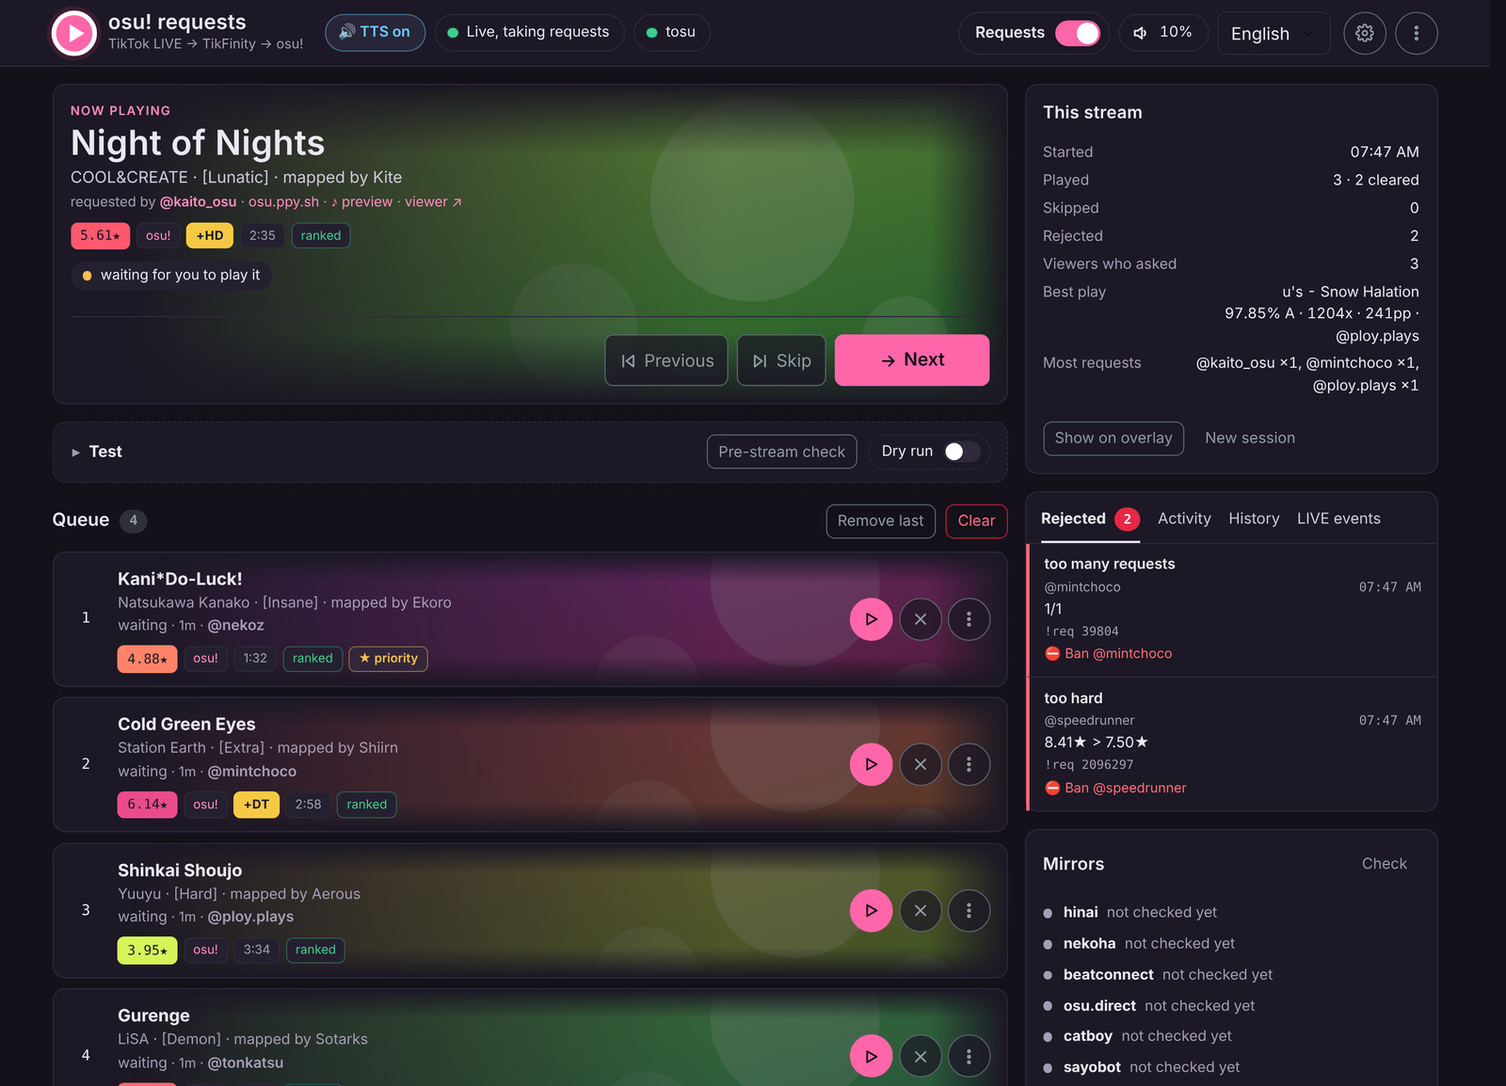
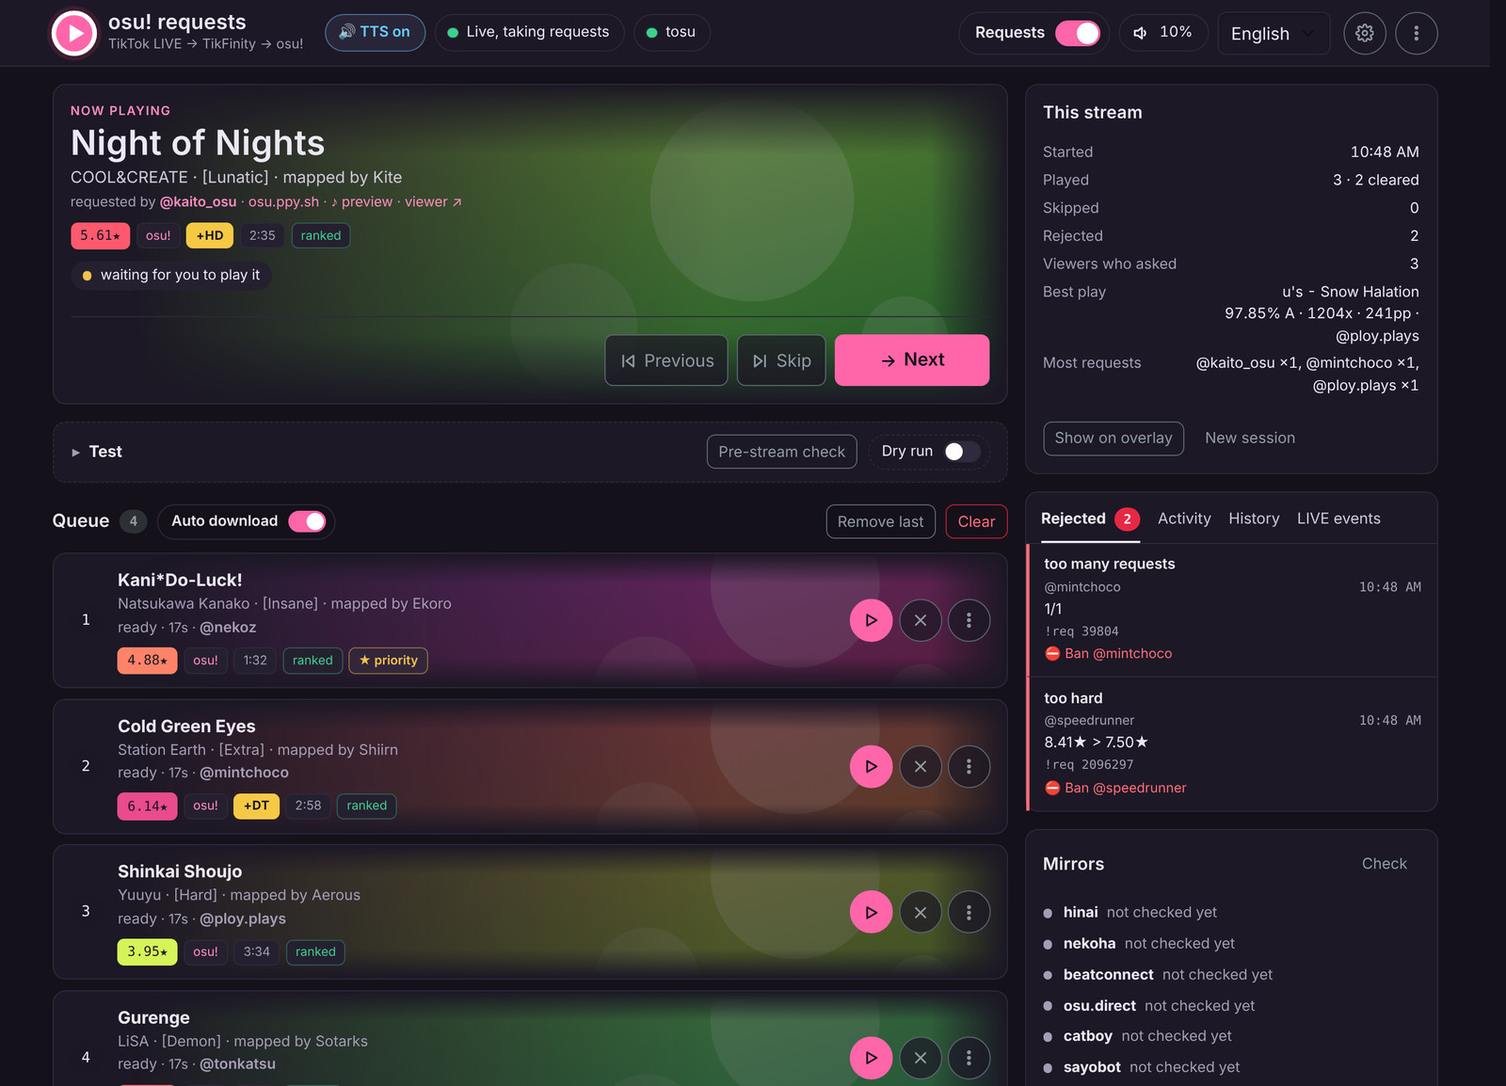
Auto download switch on the dashboard
A switch above the queue turns the background download of the next maps
on and off (import.preload, the setting formerly called Preload upcoming
maps, now Auto download). Off, a map is fetched when it is opened (Next,
Play now, or the one auto mode opens next); downloads already running
finish. Switching on with a count of 0 sets the count to the default 2.

POST /api/action/toggleAutoDownload, State.autoDownload and
autoDownloadN, an Activity line each way, tests for the app and the
server, docs and README screenshots updated.

diff --git a/internal/server/web/app.js b/internal/server/web/app.js
@@ -62,6 +62,10 @@ const T = {
   giftDone: ["Gift sent: {n} priority and {r} request(s) earned", "ส่งของขวัญแล้ว: ได้คิวพิเศษ {n} ครั้ง และขอเพลงได้ {r} เพลง"],
   priority: ["priority", "คิวพิเศษ"],
   dryRun: ["Dry run", "ทดลองไม่เปิดเกม"],
+  autoDl: ["Auto download", "ดาวน์โหลดอัตโนมัติ"],
+  autoDlOnTip: ["On: the next {n} maps in the queue are downloaded and checked in the background, so Next is instant.", "เปิดอยู่: โหลดและตรวจแมพ {n} เพลงถัดไปในคิวไว้ก่อน กด ถัดไป แล้วเปิดได้ทันที"],
+  autoDlOffTip: ["Off: nothing is downloaded in the background. A map is fetched when you open it (Next or Play now), so it takes a moment.", "ปิดอยู่: ไม่โหลดอะไรล่วงหน้า แมพจะถูกโหลดตอนเปิด (ถัดไป หรือ เล่นเลย) เลยรอสักครู่"],
+  n_autoDlOn: ["Auto download on ({n} maps ahead)", "เปิดดาวน์โหลดอัตโนมัติแล้ว (ล่วงหน้า {n} เพลง)"], n_autoDlOff: ["Auto download off: maps are fetched when opened", "ปิดดาวน์โหลดอัตโนมัติแล้ว: โหลดแมพตอนเปิด"],
   clearTest: ["Clear test data", "ล้างข้อมูลทดสอบ"],
   testPh: ["!req 2096297, a link or any chat message", "!req 2096297, ลิงก์ หรือแชททั่วไป"],
   spokenTest: ["Not a request: read aloud by chat TTS", "ไม่ใช่คำขอ: ส่งให้เสียงอ่านแชทแล้ว"],
@@ -434,6 +438,8 @@ function render() {
   $("#reqSw").checked = S.requests;
   if (!volEditing) showVolume(S.masterVolume ?? 10);
   $("#dryRunSw").checked = S.dryRun;
+  $("#autoDlSw").checked = S.autoDownload;
+  $("#autoDlWrap").title = t(S.autoDownload ? "autoDlOnTip" : "autoDlOffTip", { n: S.autoDownloadN });
   $("#dryPill").hidden = !S.dryRun;
   renderTTS();
   const up = $("#updPill");
@@ -1158,6 +1164,7 @@ $("#testMode").addEventListener("click", e => {
   renderTestHint();
 });
 $("#dryRunSw").addEventListener("change", () => act("/api/action/toggleDryRun"));
+$("#autoDlSw").addEventListener("change", () => act("/api/action/toggleAutoDownload"));
 /* ---------- pre-stream check ---------- */
 // Runs app.Preflight and lists the result in a drawer; problems first.
 let pfChecks = null, pfRunning = false;
@@ -1336,8 +1343,8 @@ const SCHEMA = {
   import: [
     F("import.mode", "seg", "Import mode", "วิธีนำเข้า", "open: osu! imports and jumps to the map (stable + lazer). copy / extract: stable only, picked up on song select or F5.", "open: osu! นำเข้าแล้วกระโดดไปที่แมพ (stable + lazer) copy / extract: เฉพาะ stable จะเห็นเมื่อเข้าหน้าเลือกเพลงหรือกด F5",
       { options: [["open", "open"], ["copy-to-songs", "copy to Songs"], ["extract-to-songs", "extract to Songs"]] }),
-    F("import.preload", "switch", "Preload upcoming maps", "โหลดแมพถัดไปล่วงหน้า", "Downloads and verifies the next maps in the background (stable: also copies them into Songs) so Next is instant.", "ดาวน์โหลดและตรวจแมพถัดไปไว้ก่อน (stable: คัดลอกเข้า Songs ด้วย) กด ถัดไป แล้วเปิดได้ทันที"),
-    F("import.preloadCount", "number", "Preload count", "จำนวนที่โหลดล่วงหน้า", null, null, { min: 0, max: 10 }),
+    F("import.preload", "switch", "Auto download", "ดาวน์โหลดอัตโนมัติ", "Downloads and verifies the next maps in the background (stable: also copies them into Songs) so Next is instant. The same switch is above the queue on the dashboard.", "ดาวน์โหลดและตรวจแมพถัดไปไว้ก่อน (stable: คัดลอกเข้า Songs ด้วย) กด ถัดไป แล้วเปิดได้ทันที สวิตช์เดียวกันอยู่เหนือคิวในหน้าแดชบอร์ด"),
+    F("import.preloadCount", "number", "Auto download: how many maps ahead", "ดาวน์โหลดอัตโนมัติ: กี่เพลงล่วงหน้า", null, null, { min: 0, max: 10 }),
   ],
   overlay: [
     F("", "overlaylink", "OBS Browser Source URL", "URL สำหรับ Browser Source ใน OBS", "Add a Browser Source in OBS or TikTok LIVE Studio with this URL. The background is transparent.", "เพิ่ม Browser Source ใน OBS หรือ TikTok LIVE Studio ด้วย URL นี้ พื้นหลังโปร่งใส"),

diff --git a/internal/server/web/app.css b/internal/server/web/app.css
@@ -109,7 +109,8 @@ button.pill:hover, a.pill:hover { background: var(--surface-2); }
 .reqtog { display: inline-flex; align-items: center; gap: .6rem; min-height: 2.5rem; padding: .2rem .5rem .2rem .9rem; border-radius: 999px; border: 1px solid var(--line); cursor: pointer; }
 .reqtog .reqlabel { font-weight: 600; font-size: .9rem; }
 .reqtog .switch { --bs-switch-height: 1.5rem; }
-.reqtog.sm { min-height: 2.1rem; padding-left: .75rem; border-style: dashed; font-size: .85rem; }
+.reqtog.sm { min-height: 2.1rem; padding-left: .75rem; font-size: .85rem; }
+.testh .reqtog.sm { border-style: dashed; }
 .reqtog.sm .switch { --bs-switch-height: 1.25rem; }
 .reqtog:has(input:not(:checked)) { border-color: color-mix(in oklch, var(--bad) 50%, transparent); background: color-mix(in oklch, var(--bad) 8%, var(--surface)); }
 .reqtog.sm:has(input:not(:checked)) { border-color: var(--line); background: none; }
@@ -126,7 +127,7 @@ button.pill:hover, a.pill:hover { background: var(--surface-2); }
 @media (max-width: 1100px) { .cols { grid-template-columns: minmax(0, 1fr); } }
 .cols > main { min-width: 0; display: flex; flex-direction: column; gap: 1rem; }
 .side { display: flex; flex-direction: column; gap: 1rem; min-width: 0; }
-.subh { display: flex; align-items: center; gap: .6rem; margin: .25rem 0 -.25rem; font-family: var(--font-display); font-size: 1.05rem; font-weight: 600; }
+.subh { display: flex; flex-wrap: wrap; align-items: center; gap: .6rem; margin: .25rem 0 -.25rem; font-family: var(--font-display); font-size: 1.05rem; font-weight: 600; }
 #resolving { margin: 0 .25rem; }
 .btnrow { display: flex; flex-wrap: wrap; gap: .5rem; margin-top: .9rem; }
 

diff --git a/internal/server/web/index.html b/internal/server/web/index.html
@@ -109,7 +109,9 @@
         </div>
       </section>
 
-      <div class="subh"><span data-t="queue">Queue</span><span class="badge badge-subtle theme-secondary mono" id="qCount"></span><span class="sp"></span>
+      <div class="subh"><span data-t="queue">Queue</span><span class="badge badge-subtle theme-secondary mono" id="qCount"></span>
+        <label class="reqtog sm" id="autoDlWrap" for="autoDlSw"><span data-t="autoDl">Auto download</span><span class="switch"><input type="checkbox" role="switch" switch id="autoDlSw"></span></label>
+        <span class="sp"></span>
         <button class="btn-outline theme-secondary btn-sm" type="button" id="rmLastBtn" data-t="removeLast">Remove last</button>
         <button class="btn-outline theme-danger btn-sm" type="button" id="clearBtn" data-t="clear">Clear</button>
       </div>

diff --git a/internal/server/server.go b/internal/server/server.go
@@ -81,6 +81,8 @@ type State struct {
 	Volume         int                           `json:"masterVolume"`
 	BlacklistUsers []string                      `json:"blacklistUsers"`
 	DryRun         bool                          `json:"dryRun"`
+	AutoDownload   bool                          `json:"autoDownload"`  // import.preload: the next maps are fetched in the background
+	AutoDownloadN  int                           `json:"autoDownloadN"` // how many (import.preloadCount)
 	VoteSkip       app.VoteSkip                  `json:"voteSkip"`
 	Update         *update.Release               `json:"update,omitempty"`
 	Summary        queue.Summary                 `json:"summary"`
@@ -104,7 +106,7 @@ func (s *Server) state() State {
 		Version: s.Version, TikFinity: s.App.TF.Status(), Tosu: s.App.Tosu.Status(), AutoGap: cfg.Queue.AutoGapSec, AutoNeedsPass: cfg.Queue.AutoNeedsPass, Queue: s.App.Queue.Snapshot(),
 		Requests: cfg.Command.Enabled, Resolving: s.App.Resolving(), Notices: s.App.Notices(), Feed: s.App.Feed(),
 		CacheMB: float64(s.App.DL.CacheSize()) / (1 << 20), Overlay: cfg.Overlay, Command: cfg.Command.Name, Search: cfg.Command.Search && s.App.Search != nil, RequestCoins: cfg.Gifts.RequestCoins,
-		Lang: cfg.Language, PlayMode: cfg.Queue.PlayMode, ViewerURL: cfg.Osu.ViewerURL, Volume: cfg.MasterVolume, BlacklistUsers: cfg.Rules.BlacklistUsers, DryRun: cfg.Test.DryRun, Raw: raw, FirstRaw: first,
+		Lang: cfg.Language, PlayMode: cfg.Queue.PlayMode, ViewerURL: cfg.Osu.ViewerURL, Volume: cfg.MasterVolume, BlacklistUsers: cfg.Rules.BlacklistUsers, DryRun: cfg.Test.DryRun, AutoDownload: cfg.Import.Preload, AutoDownloadN: cfg.Import.PreloadCount, Raw: raw, FirstRaw: first,
 		VoteSkip: s.App.Votes(), Update: s.App.Update(), Summary: s.App.Queue.Summary(), SummaryShown: s.App.SummaryShown(), TTS: cfg.TTS, Speech: s.App.Speech(),
 		PreviewAsk: s.App.PreviewAsked(), MirrorCheck: s.App.CheckingMirrors(),
 	}
@@ -415,6 +417,8 @@ func (s *Server) action(w http.ResponseWriter, r *http.Request) {
 		a.NewSession()
 	case "toggleDryRun":
 		a.ToggleDryRun()
+	case "toggleAutoDownload":
+		a.ToggleAutoDownload()
 	case "clearTest":
 		a.ClearTest()
 	case "openTikfinityDownload":

diff --git a/internal/app/commands_test.go b/internal/app/commands_test.go
@@ -1,6 +1,7 @@
 package app
 
 import (
+	"context"
 	"errors"
 	"path/filepath"
 	"testing"
@@ -228,5 +229,38 @@ func TestAvatarsReachFeedAndQueue(t *testing.T) {
 	a.command(tikfinity.Chat{User: "stranger", Comment: "!pos"}, false)
 	if f := a.Feed()[0]; f.Avatar != "" {
 		t.Errorf("unknown viewers have no picture: %+v", f)
+	}
+}
+
+// The dashboard's auto download switch is import.preload: off, the queue is
+// left alone (the app here has no downloader, so a download would panic).
+func TestAutoDownloadSwitch(t *testing.T) {
+	a := newTestApp(t, func(c *config.Config) { c.Import.Preload, c.Import.PreloadCount = true, 3 })
+	if a.ToggleAutoDownload() || a.Cfg.Get().Import.Preload {
+		t.Fatal("the first toggle should turn auto download off")
+	}
+	add(a, "x", "u", 1, time.Now())
+	a.tick(context.Background())
+	if it, _ := a.Queue.Get("x"); it.State == queue.Downloading || it.State == queue.Ready {
+		t.Errorf("off: nothing should be fetched in the background, state %q", it.State)
+	}
+	if !a.ToggleAutoDownload() || !a.Cfg.Get().Import.Preload {
+		t.Fatal("the second toggle should turn it on")
+	}
+	if got := a.Cfg.Get().Import.PreloadCount; got != 3 {
+		t.Errorf("the count is kept: %d", got)
+	}
+	var keys []string
+	for _, n := range a.Notices() {
+		keys = append(keys, n.Key)
+	}
+	if len(keys) < 2 || keys[0] != "autoDlOn" || keys[1] != "autoDlOff" {
+		t.Errorf("Activity should say off then on (newest first): %v", keys)
+	}
+
+	// on with a count of 0 would fetch nothing: it takes the default
+	b := newTestApp(t, func(c *config.Config) { c.Import.Preload, c.Import.PreloadCount = false, 0 })
+	if !b.ToggleAutoDownload() || b.Cfg.Get().Import.PreloadCount != config.Default().Import.PreloadCount {
+		t.Errorf("count after switching on from 0: %d", b.Cfg.Get().Import.PreloadCount)
 	}
 }

diff --git a/internal/app/app.go b/internal/app/app.go
@@ -1121,6 +1121,27 @@ func (a *App) SetVolume(v int) error {
 	return a.Cfg.Set(c)
 }
 
+// ToggleAutoDownload switches the background download of the next maps in
+// the queue (import.preload). Off, a map is fetched when it is opened (Next,
+// Play now, or auto mode for the one it opens next); downloads that are
+// already running finish. Turning it on with a count of 0 would do nothing,
+// so it then uses the default of 2.
+func (a *App) ToggleAutoDownload() bool {
+	c := a.Cfg.Get()
+	c.Import.Preload = !c.Import.Preload
+	if c.Import.Preload && c.Import.PreloadCount == 0 {
+		c.Import.PreloadCount = config.Default().Import.PreloadCount
+	}
+	a.Cfg.Set(c)
+	if c.Import.Preload {
+		a.Say("info", "autoDlOn", map[string]string{"n": strconv.Itoa(c.Import.PreloadCount)}, "auto download ON: the next %d maps are fetched in the background", c.Import.PreloadCount)
+	} else {
+		a.Say("info", "autoDlOff", nil, "auto download OFF: a map is fetched when it is opened")
+	}
+	a.Wake()
+	return c.Import.Preload
+}
+
 func (a *App) ToggleDryRun() bool {
 	c := a.Cfg.Get()
 	c.Test.DryRun = !c.Test.DryRun

diff --git a/internal/server/server_test.go b/internal/server/server_test.go
@@ -166,6 +166,17 @@ func TestActions(t *testing.T) {
 		t.Error("toggleRequests did not toggle")
 	}
 
+	pre := s.App.Cfg.Get().Import.Preload
+	if m := decode(t, do(h, http.MethodPost, "/api/action/toggleAutoDownload", "")); m["ok"] != true {
+		t.Fatalf("toggleAutoDownload: %v", m)
+	}
+	if s.App.Cfg.Get().Import.Preload == pre {
+		t.Error("toggleAutoDownload did not toggle")
+	}
+	if st := decode(t, do(h, http.MethodGet, "/api/state", "")); st["autoDownload"] != !pre {
+		t.Errorf("state.autoDownload = %v, want %v", st["autoDownload"], !pre)
+	}
+
 	// An app error comes back with its code so the dashboard can translate it.
 	m := decode(t, do(h, http.MethodPost, "/api/action/next", ""))
 	if m["ok"] != false || m["code"] != "queue_empty" {

diff --git a/docs/DEVELOPMENT.md b/docs/DEVELOPMENT.md
@@ -237,7 +237,8 @@ Mods are the users in **Settings → Command → Mods**, plus TikTok moderators 
    * `copy-to-songs` (stable): copied into Songs; picked up on song select or F5.
    * `extract-to-songs` (stable): extracted to `Songs\{setId} {Artist} - {Title}\`.
 
-   **Preload** downloads and verifies the next N maps in the background, and on stable copies them into Songs so Next is instant.
+   **Auto download** (`import.preload`) downloads and verifies the next N maps in the background, and on stable copies them into Songs so Next is instant.
+   It has a switch above the queue on the dashboard (`toggleAutoDownload`, `State.autoDownload` / `autoDownloadN`). Off, a map is fetched when it is opened (Next, Play now, or the one auto mode opens next); downloads already running finish. Switching on with `preloadCount` 0 sets it to 2.
 
 Rejection reason codes (shown translated on the dashboard): `user_blacklisted`, `queue_full`, `user_limit`, `cooldown`, `set_blacklisted`,
 `mapper_blacklisted`, `status`, `duplicate`, `recently_played`, `not_found`, `mode`, `stars_low`, `stars_high`, `too_long`, `meta_error`,
@@ -697,7 +698,7 @@ Errors meant for the streamer also carry `code` and `vars` (from `app.UserError`
 | `GET /api/state` | the same `State` once |
 | `GET /api/config` | `{config, defaults}` |
 | `PUT /api/config` | replace the whole config (validated); `{ok, restartNeeded}` |
-| `POST /api/action/{name}` | `next`, `previous` (back to the map played before: osu! opens it again, the current map returns to the front of the queue), `skip`, `removeLast`, `toggleRequests`, `clear`, `cleanup`, `toggleDryRun`, `clearTest`, `launchTikfinity`, `reconnect`, `openTikfinityDownload`, `launchTosu`, `reconnectTosu`, `openTosuDownload`, `stopTosu`, `stopTikfinity`, `quit`, `quitAll` (closes tosu and TikFinity, then quits), `installUpdate` (only when a downloaded update is ready: quits, installs and starts the new version), `showSummary`, `newSession`, `checkMirrors` (probes every download mirror now; otherwise they are probed once, 15 s after start, and downloads keep the panel current) |
+| `POST /api/action/{name}` | `next`, `previous` (back to the map played before: osu! opens it again, the current map returns to the front of the queue), `skip`, `removeLast`, `toggleRequests`, `clear`, `cleanup`, `toggleDryRun`, `toggleAutoDownload`, `clearTest`, `launchTikfinity`, `reconnect`, `openTikfinityDownload`, `launchTosu`, `reconnectTosu`, `openTosuDownload`, `stopTosu`, `stopTikfinity`, `quit`, `quitAll` (closes tosu and TikFinity, then quits), `installUpdate` (only when a downloaded update is ready: quits, installs and starts the new version), `showSummary`, `newSession`, `checkMirrors` (probes every download mirror now; otherwise they are probed once, 15 s after start, and downloads keep the panel current) |
 | `POST /api/queue/{id}/{op}` | `remove`, `skip`, `play`, `retry`, `move` (body `{"to": <index>}`) |
 | `POST /api/test` | quick add: `{"input": "<id or link>", "user": "<name>"}` → `{ok, item}` or `{ok:false, code, error}` |
 | `POST /api/simulate` | simulated chat: `{"message": "!req …", "user": "<name>"}`; `code: "ignored"` when it is not a request; for a chat command `{ok, command: "cmd_done" \| "cmd_not_mod" \| "cmd_nothing"}` |
@@ -824,7 +825,7 @@ All settings are editable in the dashboard (gear icon). Missing keys take their 
 | | `onAllFail` | `skip` | `skip` or `warn` |
 | | `metaTimeoutSec` | `15` | osu! metadata timeout |
 | import | `mode` | `open` | `open`, `copy-to-songs`, `extract-to-songs` |
-| | `preload` / `preloadCount` | `true` / `2` | |
+| | `preload` / `preloadCount` | `true` / `2` | **Auto download**: fetch the next `preloadCount` maps in the background; also the switch above the queue on the dashboard |
 | overlay | `visible`, `showRequester`, `theme` (`pink`/`sky`/`mono`), `scale` (%), `position` | `5`, `true`, `pink`, `100`, `top-left` | |
 | | `feedback` / `feedbackSec` | `true` / `7` | Pop-ups for viewers and how long they stay |
 | | `lang` | `auto` | Overlay language: `auto` (OBS browser language), `en`, `th` |
@@ -1031,7 +1032,7 @@ Read this before changing anything.
 
 | Version | Commit | Changes |
 |---|---|---|
-| unreleased | branch `ui-bootstrap6` | **New dashboard on Bootstrap 6** (6.0.0-alpha.1, vendored): sticky top bar with the requests switch, volume, language, settings and a ⋮ menu (pre-stream check, support file, close tosu/TikFinity, quit); light and dark by the browser; now playing and queue rows with the cover as a soft banner inside the box (drawn with a CSS mask, so it fades into the box colour in light and dark; strongest on the right, fading out towards the text and at the edges), play and remove buttons and a ⋮ menu (move, skip, preview, open elsewhere, bans); rejected / activity / history / LIVE events as tabs; settings as a dialog with a side menu (a full-screen page on phones); the pre-stream check in a drawer; Bootstrap toasts. The server sets the content type of `.js`, `.css` and `.svg` itself. Needs Chrome/Edge 130, Firefox 132 or Safari 18 or newer. Bootstrap, Floating UI and Vanilla Calendar Pro licences added |
+| unreleased | branches `ui-bootstrap6`, `auto-download-switch` | **Auto download switch** above the queue on the dashboard (`import.preload`; `POST /api/action/toggleAutoDownload`; `State.autoDownload`, `autoDownloadN`); the setting is renamed Auto download. **New dashboard on Bootstrap 6** (6.0.0-alpha.1, vendored): sticky top bar with the requests switch, volume, language, settings and a ⋮ menu (pre-stream check, support file, close tosu/TikFinity, quit); light and dark by the browser; now playing and queue rows with the cover as a soft banner inside the box (drawn with a CSS mask, so it fades into the box colour in light and dark; strongest on the right, fading out towards the text and at the edges), play and remove buttons and a ⋮ menu (move, skip, preview, open elsewhere, bans); rejected / activity / history / LIVE events as tabs; settings as a dialog with a side menu (a full-screen page on phones); the pre-stream check in a drawer; Bootstrap toasts. The server sets the content type of `.js`, `.css` and `.svg` itself. Needs Chrome/Edge 130, Firefox 132 or Safari 18 or newer. Bootstrap, Floating UI and Vanilla Calendar Pro licences added |
 | 1.4.8 | PR #13 | **TikTok direct**: chat and gifts straight from TikTok without TikFinity (`connection.source` `tiktok`, `tiktokUser`, optional `eulerApiKey`; new package `internal/tiktok`, signed by Euler Stream, keyless or with a key; switch back to TikFinity any time). Status pill, pre-stream check, mod panel and support file (key hidden) know the source. Only one dashboard page reads TTS (`POST /api/tts/speaker`, `State.ttsSpeaker`): the last one started, the others say **TTS in another window**. `osu.viewerUrl` can be a template with `{set}`, `{map}`, `{file}` |
 | 1.4.7 | PR #11 | TTS starts by itself when the dashboard loads (`ttsAutoStart`); when the browser wants an interaction first, the first click or key anywhere starts it. Switching it off is remembered per browser (`osureq.ttsOff`). New `queue.autoNeedsPass` ("Auto: only after a clear", off by default): a fail or quit waits for a retry or Next; the tracker now goes from `ended` back to `playing` when the same map is played again. README credits chaiwat2183 for the idea |
 | 1.4.6 | PR #10 | Auto mode no longer stalls: a failed first request is passed over (as Next does), and the tracker also matches by artist and title when tosu reports another set ID (osu! says -1 for maps without one in the .osu). **Previous** on the dashboard and the mod panel (`App.Previous`, `Queue.Back`, the last 10 now-playing maps in `recent`): osu! opens the map played before again and the current one returns to the front of the queue. History rows have **Open in osu!** (`POST /api/jump`, `osu://b/<id>`; history now records `beatmapId`). Mirrors are probed once after start instead of every 30 min, show OK, and a mirror refusing a download with HTTP 403 is reported in Activity (once per mirror until it works again) |

diff --git a/README.md b/README.md
@@ -127,7 +127,7 @@ TikTok chat ──► TikFinity ──WebSocket──► osureq ──► osu.pp
    A rejected request shows its reason on the overlay, because TikFinity cannot write back into TikTok chat.
 5. **Queue**: saved in `queue.json`, so it survives a restart. Viewers whose gifts add up to enough coins get priority (when turned on).
 6. **Download and verify**: the `.osz` is downloaded from the mirrors in the configured order, one map at a time, and the MD5 of every
-   `.osu` inside is compared with osu!. An outdated mirror copy makes it try the next source. The next maps are preloaded so they open instantly.
+   `.osu` inside is compared with osu!. An outdated mirror copy makes it try the next source. The next maps are downloaded ahead of time so they open instantly (the **Auto download** switch above the queue turns this off).
 7. **Open**: press **Next** on the dashboard (or the hotkey) and osureq opens the `.osz`; osu! imports it and jumps to the map.
 8. **Auto mode**: osureq follows the game state from tosu. Once the opened map has really been played and the player leaves the results
    screen, the next map opens after a few seconds. The play result (accuracy, rank, combo, misses, pp, mods) is saved and shown on the overlay.
